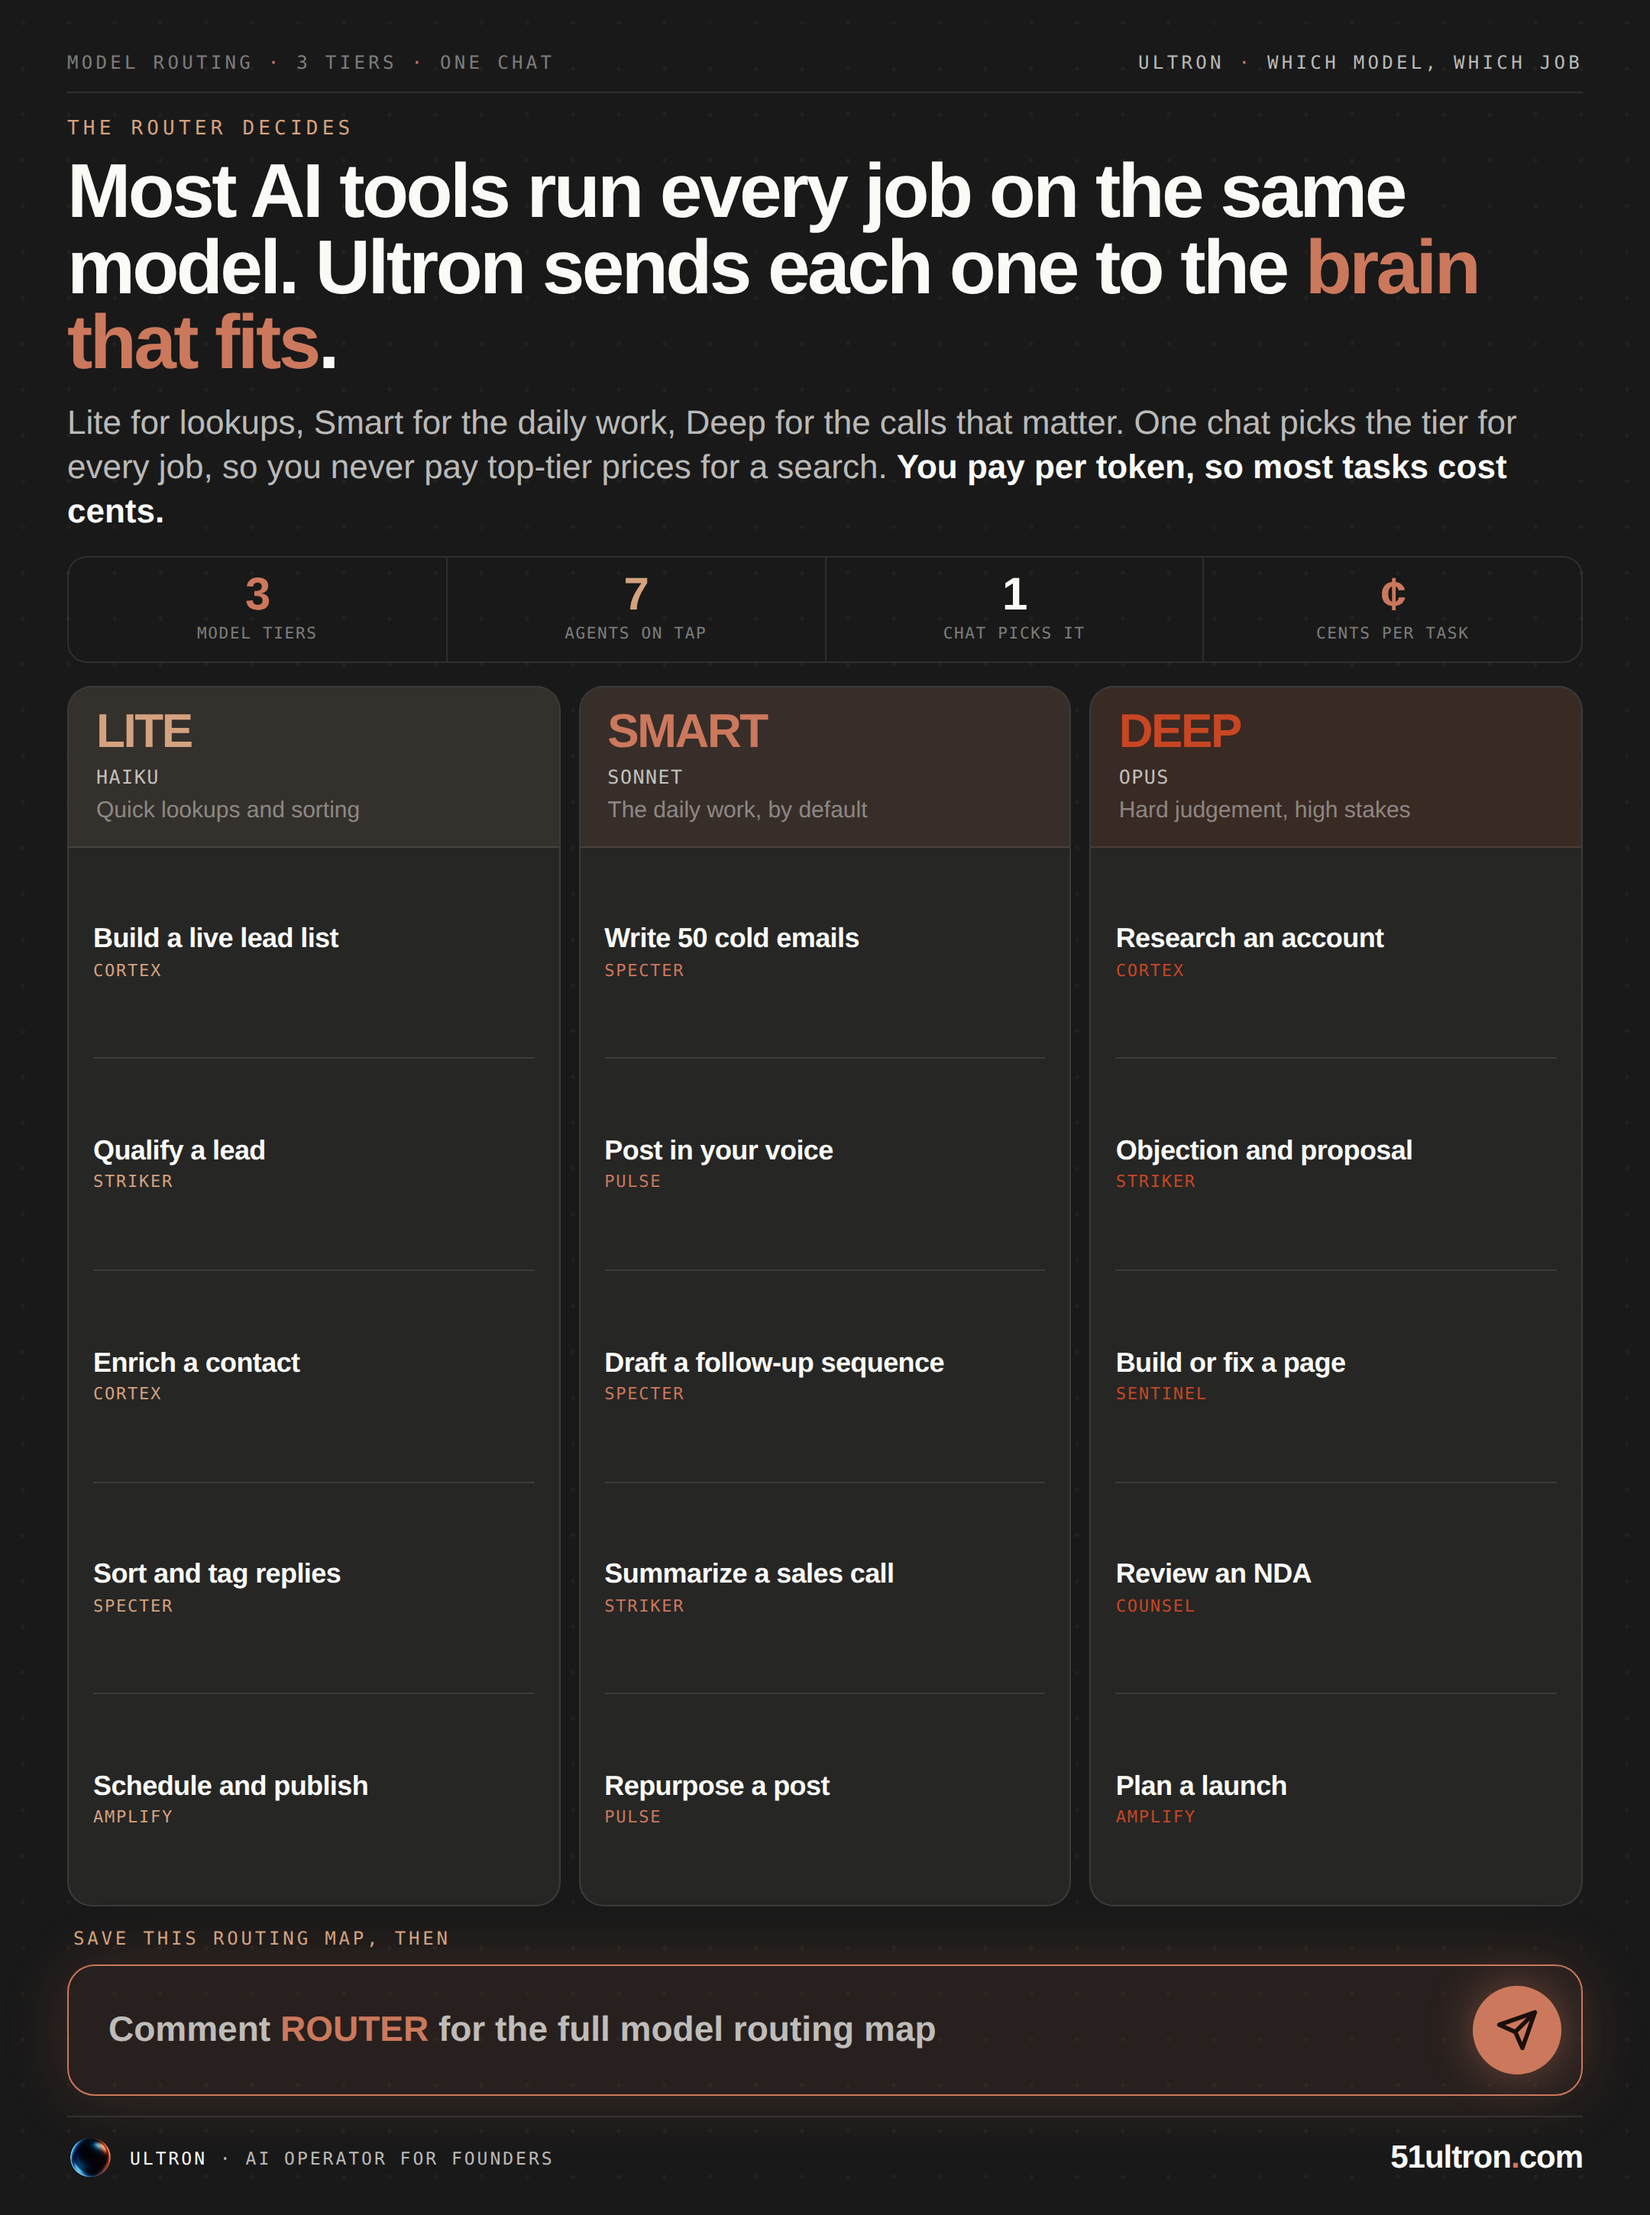
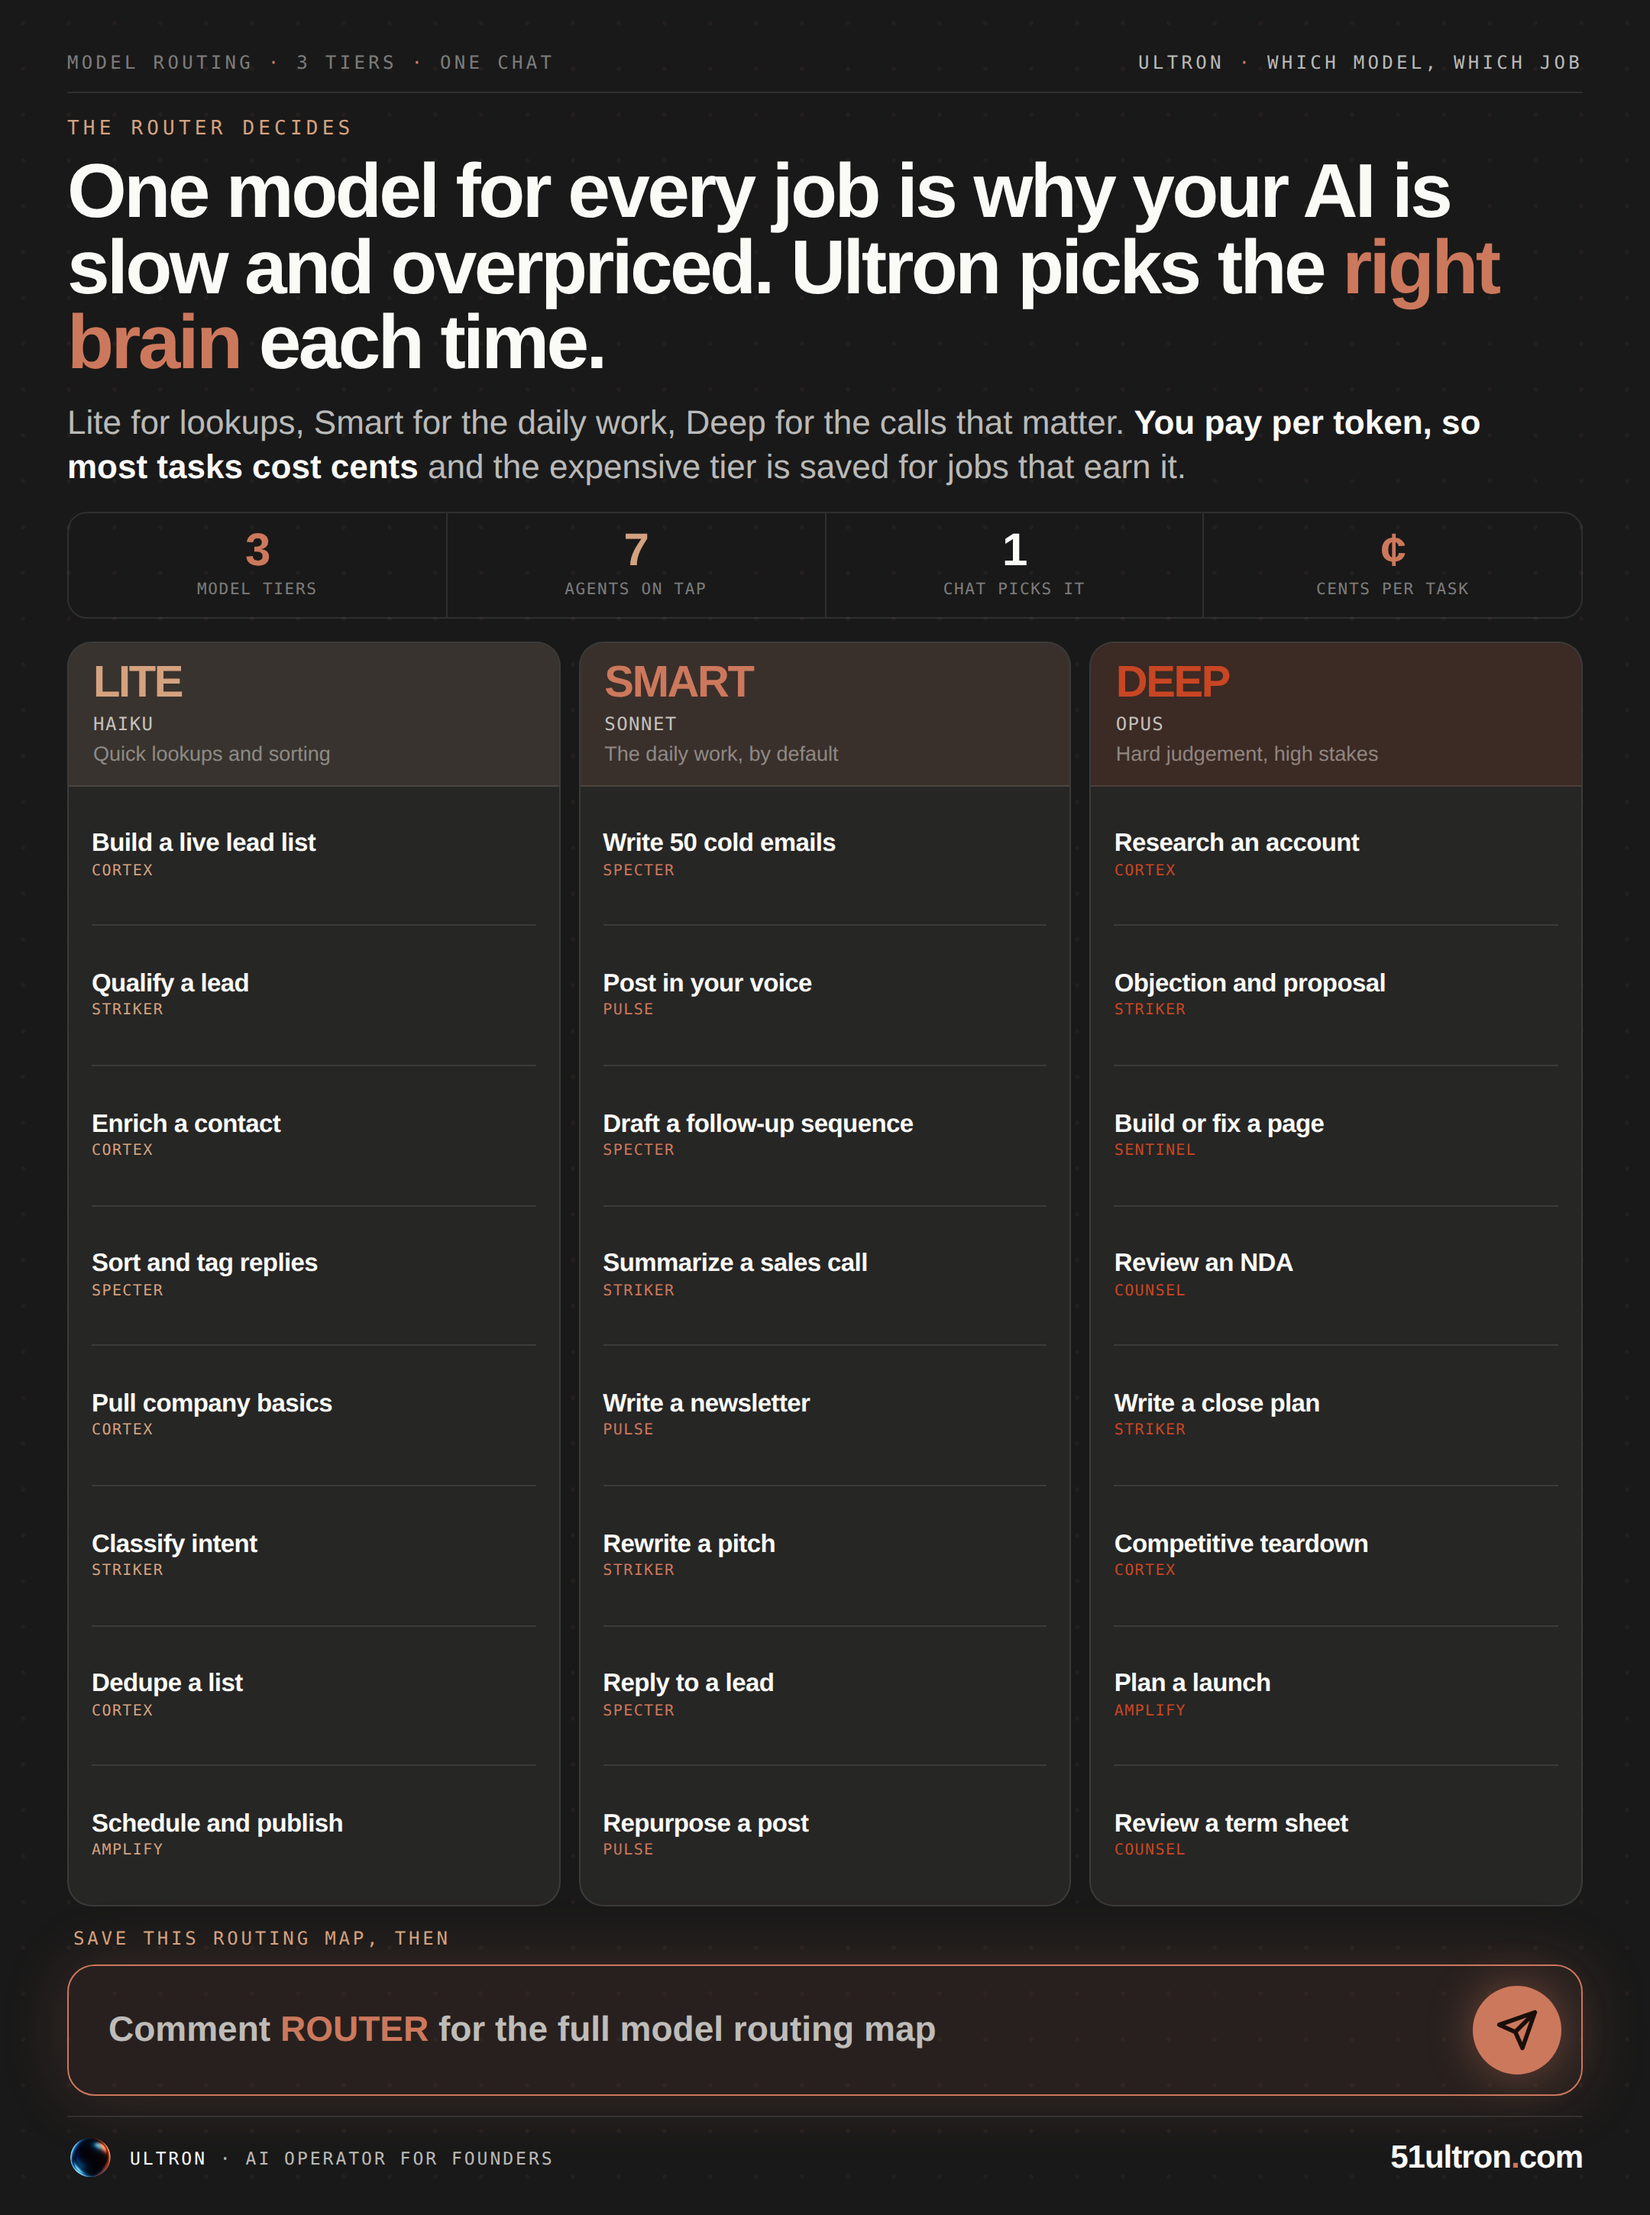
LinkedIn routing map: densify lanes (8 jobs each), punch hook
Table read too airy (5 spread rows per lane). Pack 8 real founder jobs per tier
lane, tight rows edge-to-edge, stronger scroll-stop hook. Heavier dominant block
per S27 density rule.

Claude-Session: https://claude.ai/code/session_014kd6D8JB5VW3pfqpgRb2H7

diff --git a/content/router-tiers-linkedin.html b/content/router-tiers-linkedin.html
@@ -31,18 +31,18 @@ body{background:#0d0d0d;display:flex;justify-content:center;padding:24px 0;font-
 /* lanes (dominant) */
 .lanes{flex:1;min-height:0;margin-top:15px;display:flex;gap:12px;}
 .lane{flex:1;display:flex;flex-direction:column;border:1px solid var(--rule);border-radius:16px;background:var(--slate2);overflow:hidden;min-height:0;}
-.lhead{flex-shrink:0;padding:15px 18px 14px;border-bottom:1px solid var(--rule);}
-.ltier{font-weight:900;font-size:31px;letter-spacing:-1.2px;line-height:.9;}
-.lmodel{font-family:'DM Mono',monospace;font-size:12.5px;font-weight:500;letter-spacing:.06em;text-transform:uppercase;color:var(--ink70);margin-top:8px;}
-.lwhen{font-size:15px;font-weight:500;color:var(--ink46);margin-top:6px;line-height:1.18;}
-.lane.lite .ltier{color:var(--kraft);} .lane.lite .lhead{background:rgba(212,162,127,.08);}
-.lane.smart .ltier{color:var(--book);} .lane.smart .lhead{background:rgba(204,120,92,.1);}
-.lane.deep .ltier{color:var(--book-d);} .lane.deep .lhead{background:rgba(200,70,35,.12);}
-.ljobs{flex:1;min-height:0;display:flex;flex-direction:column;padding:0 16px;}
-.job{flex:1;min-height:0;display:flex;flex-direction:column;justify-content:center;padding:7px 0;border-bottom:1px solid var(--rule);}
+.lhead{flex-shrink:0;padding:13px 16px 12px;border-bottom:1.5px solid var(--rule);}
+.ltier{font-weight:900;font-size:29px;letter-spacing:-1.2px;line-height:.9;}
+.lmodel{font-family:'DM Mono',monospace;font-size:12px;font-weight:500;letter-spacing:.06em;text-transform:uppercase;color:var(--ink70);margin-top:7px;}
+.lwhen{font-size:13.5px;font-weight:500;color:var(--ink46);margin-top:5px;line-height:1.15;}
+.lane.lite .ltier{color:var(--kraft);} .lane.lite .lhead{background:rgba(212,162,127,.1);}
+.lane.smart .ltier{color:var(--book);} .lane.smart .lhead{background:rgba(204,120,92,.12);}
+.lane.deep .ltier{color:var(--book-d);} .lane.deep .lhead{background:rgba(200,70,35,.14);}
+.ljobs{flex:1;min-height:0;display:flex;flex-direction:column;padding:0 15px;}
+.job{flex:1;min-height:0;display:flex;flex-direction:column;justify-content:center;padding:4px 0;border-bottom:1px solid var(--rule);}
 .job:last-child{border-bottom:none;}
-.job .jt{font-size:18px;font-weight:700;color:var(--ivory);letter-spacing:-.3px;line-height:1.08;}
-.job .ja{font-family:'DM Mono',monospace;font-size:11px;font-weight:500;letter-spacing:.08em;text-transform:uppercase;color:var(--kraft);margin-top:4px;}
+.job .jt{font-size:16.5px;font-weight:700;color:var(--ivory);letter-spacing:-.3px;line-height:1.06;}
+.job .ja{font-family:'DM Mono',monospace;font-size:10px;font-weight:500;letter-spacing:.07em;text-transform:uppercase;color:var(--kraft);margin-top:3px;}
 .lane.smart .job .ja{color:var(--book);}.lane.deep .job .ja{color:var(--book-d);}
 /* cta */
 .ctawrap{flex-shrink:0;margin-top:14px;}
@@ -62,8 +62,8 @@ body{background:#0d0d0d;display:flex;justify-content:center;padding:24px 0;font-
   <div class="mast"><span class="ml">MODEL ROUTING <em>&middot;</em> 3 TIERS <em>&middot;</em> ONE CHAT</span><span class="mr">ULTRON <em>&middot;</em> WHICH MODEL, WHICH JOB</span></div>
   <div class="hero">
     <div class="eye">The router decides</div>
-    <div class="hook">Most AI tools run every job on the same model. Ultron sends each one to the <em>brain that fits</em>.</div>
-    <div class="sub">Lite for lookups, Smart for the daily work, Deep for the calls that matter. One chat picks the tier for every job, so you never pay top-tier prices for a search. <b>You pay per token, so most tasks cost cents.</b></div>
+    <div class="hook">One model for every job is why your AI is slow and overpriced. Ultron picks the <em>right brain</em> each time.</div>
+    <div class="sub">Lite for lookups, Smart for the daily work, Deep for the calls that matter. <b>You pay per token, so most tasks cost cents</b> and the expensive tier is saved for jobs that earn it.</div>
   </div>
   <div class="stats">
     <div class="stat a"><b>3</b><span>model tiers</span></div>
@@ -79,6 +79,9 @@ body{background:#0d0d0d;display:flex;justify-content:center;padding:24px 0;font-
         <div class="job"><div class="jt">Qualify a lead</div><div class="ja">STRIKER</div></div>
         <div class="job"><div class="jt">Enrich a contact</div><div class="ja">CORTEX</div></div>
         <div class="job"><div class="jt">Sort and tag replies</div><div class="ja">SPECTER</div></div>
+        <div class="job"><div class="jt">Pull company basics</div><div class="ja">CORTEX</div></div>
+        <div class="job"><div class="jt">Classify intent</div><div class="ja">STRIKER</div></div>
+        <div class="job"><div class="jt">Dedupe a list</div><div class="ja">CORTEX</div></div>
         <div class="job"><div class="jt">Schedule and publish</div><div class="ja">AMPLIFY</div></div>
       </div>
     </div>
@@ -89,6 +92,9 @@ body{background:#0d0d0d;display:flex;justify-content:center;padding:24px 0;font-
         <div class="job"><div class="jt">Post in your voice</div><div class="ja">PULSE</div></div>
         <div class="job"><div class="jt">Draft a follow-up sequence</div><div class="ja">SPECTER</div></div>
         <div class="job"><div class="jt">Summarize a sales call</div><div class="ja">STRIKER</div></div>
+        <div class="job"><div class="jt">Write a newsletter</div><div class="ja">PULSE</div></div>
+        <div class="job"><div class="jt">Rewrite a pitch</div><div class="ja">STRIKER</div></div>
+        <div class="job"><div class="jt">Reply to a lead</div><div class="ja">SPECTER</div></div>
         <div class="job"><div class="jt">Repurpose a post</div><div class="ja">PULSE</div></div>
       </div>
     </div>
@@ -99,7 +105,10 @@ body{background:#0d0d0d;display:flex;justify-content:center;padding:24px 0;font-
         <div class="job"><div class="jt">Objection and proposal</div><div class="ja">STRIKER</div></div>
         <div class="job"><div class="jt">Build or fix a page</div><div class="ja">SENTINEL</div></div>
         <div class="job"><div class="jt">Review an NDA</div><div class="ja">COUNSEL</div></div>
+        <div class="job"><div class="jt">Write a close plan</div><div class="ja">STRIKER</div></div>
+        <div class="job"><div class="jt">Competitive teardown</div><div class="ja">CORTEX</div></div>
         <div class="job"><div class="jt">Plan a launch</div><div class="ja">AMPLIFY</div></div>
+        <div class="job"><div class="jt">Review a term sheet</div><div class="ja">COUNSEL</div></div>
       </div>
     </div>
   </div>
